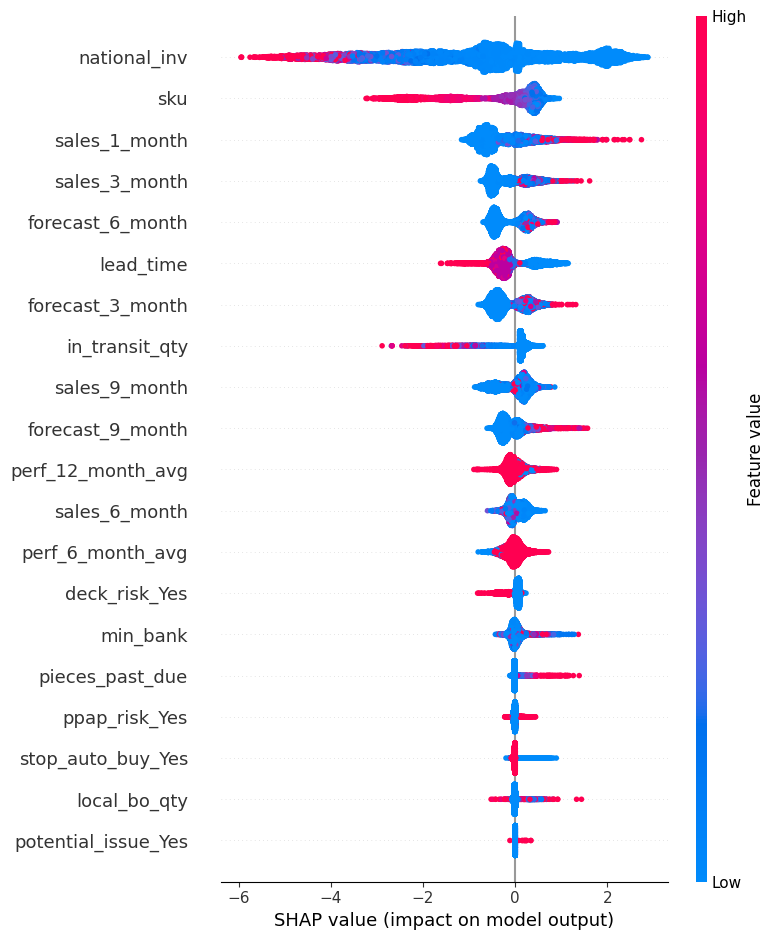
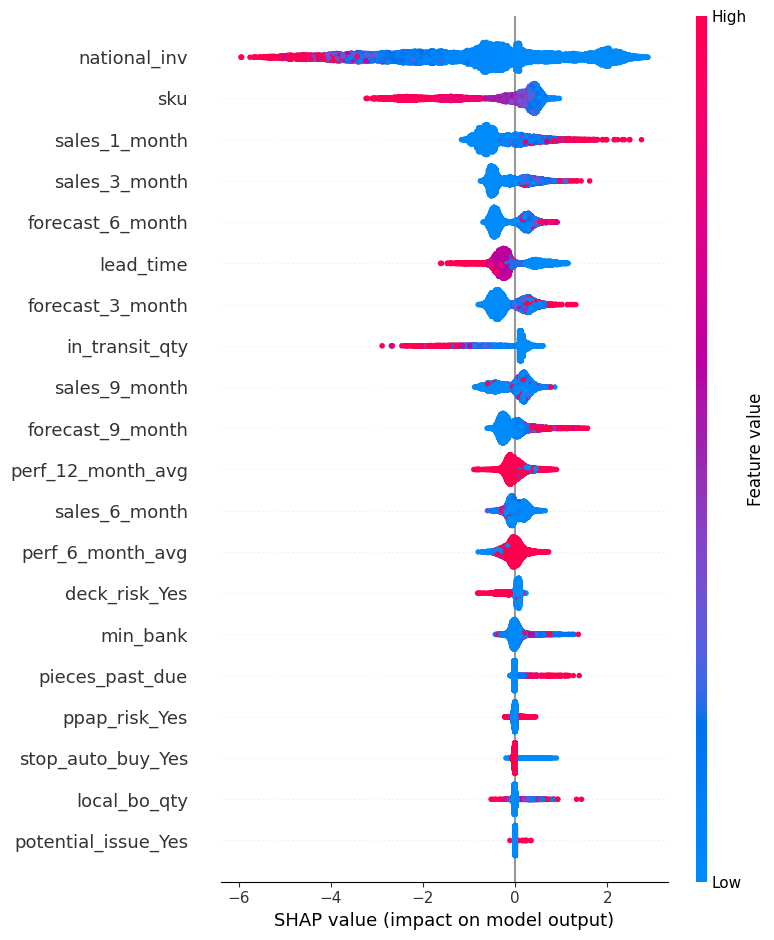
SHAP interpretation using waterfall

diff --git a/ML-Models/Decision-Tree/Backorder-Prediction/advanced_models/shap_explainability.py b/ML-Models/Decision-Tree/Backorder-Prediction/advanced_models/shap_explainability.py
@@ -28,3 +28,42 @@ def run_shap_analysis(model, X_train, X_test):
     plt.close()
 
     print("SHAP plots saved in results/")
+
+
+
+def shap_waterfall_plot(model, X_test):
+
+    print("Generating SHAP waterfall plot...")
+
+    explainer = shap.TreeExplainer(model)
+
+    shap_values = explainer(X_test)
+
+    os.makedirs("results", exist_ok=True)
+
+    plt.figure()
+
+    shap.plots.waterfall(shap_values[0], show=False)
+
+    plt.savefig("results/shap_waterfall.png", bbox_inches="tight")
+
+    plt.close()
+
+    print("Waterfall plot saved.")
+
+
+def shap_force_plot(model, X_test):
+
+    explainer = shap.TreeExplainer(model)
+
+    shap_values = explainer.shap_values(X_test)
+
+    shap.initjs()
+
+    force_plot = shap.force_plot(
+        explainer.expected_value,
+        shap_values[0],
+        X_test.iloc[0]
+    )
+
+    return force_plot

diff --git a/ML-Models/Decision-Tree/Backorder-Prediction/src/train.py b/ML-Models/Decision-Tree/Backorder-Prediction/src/train.py
@@ -16,6 +16,8 @@ from evaluate import evaluate_model
 from save_model import save_model
 from logger import logger
 from advanced_models.shap_explainability import run_shap_analysis
+from advanced_models.shap_explainability import shap_waterfall_plot
+from advanced_models.shap_explainability import shap_force_plot
 
 def main():
 
@@ -57,6 +59,8 @@ def main():
     if args.shap:
         logger.info("Running SHAP explainability")
         run_shap_analysis(model, X_train, X_test)
+        shap_waterfall_plot(model, X_test)
+        shap_force_plot(model, X_test)
     logger.info("Saving model")
     save_model(model, f"models/{model_name}")
     logger.info("Training pipeline completed successfully")

diff --git a/ML-Models/Decision-Tree/Backorder-Prediction/src/preprocessing.py b/ML-Models/Decision-Tree/Backorder-Prediction/src/preprocessing.py
@@ -5,6 +5,7 @@ from sklearn.model_selection import train_test_split
 
 def load_data(path):
     df = pd.read_csv(path)
+    df = df.drop(columns=['sku'])
     return df
 
 
@@ -27,7 +28,7 @@ def preprocess_data(df):
 
 
 def split_data(df):
-
+    
     X = df.drop("went_on_backorder_Yes", axis=1)
     y = df["went_on_backorder_Yes"]
 

diff --git a/ML-Models/Decision-Tree/Backorder-Prediction/README.md b/ML-Models/Decision-Tree/Backorder-Prediction/README.md
@@ -277,9 +277,12 @@ Example output:
 - SHAP Summary Plot
 - Feature Importance Plot
 
+### Global Feature Importance
 ![SHAP Summary](results/shap_summary.png)
 ![Feature Importance](results/shap_feature_importance.png)
 
+### Example Prediction Explanation
+![SHAP Waterfall](results/shap_waterfall.png)
 
 Key insights:
 
